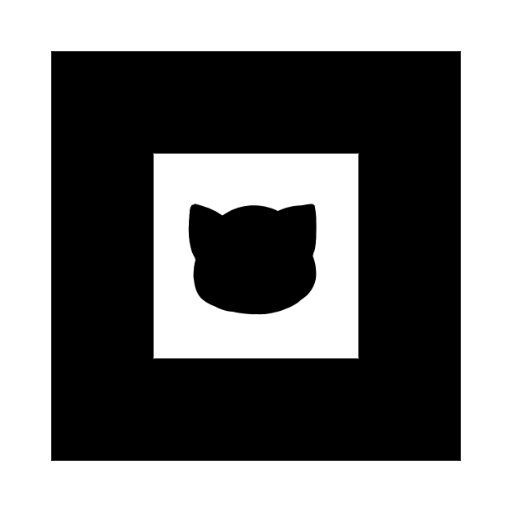
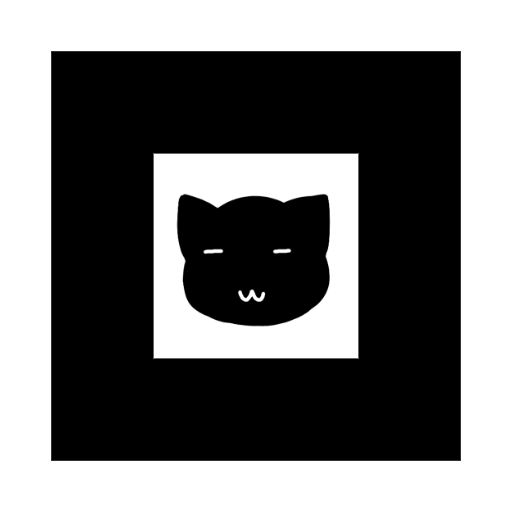
fdsaAsdfghyjuiop['

Changed region(s): [[0.3438, 0.375, 0.6562, 0.6562], [0.5312, 0.4688, 0.5625, 0.5]]

diff --git a/custom-pattern-markers/index.html b/custom-pattern-markers/index.html
@@ -14,7 +14,7 @@
     <a-marker type="pattern" url="assets/Nike_400.patt">
       <a-image src="#cat" width="3" height="1.5" rotation="90 0 0"></a-image>
     </a-marker>
-    <a-marker preset='custom' type="pattern" url="assets/pattern-blackcatmarker.patt">
+    <a-marker preset='custom' type="pattern" url="assets/pattern-catmarker.patt">
       <a-image src="#cat" width="3" height="1.5" rotation="90 0 0"></a-image>
     </a-marker>
     <a-entity camera=""></a-entity>
